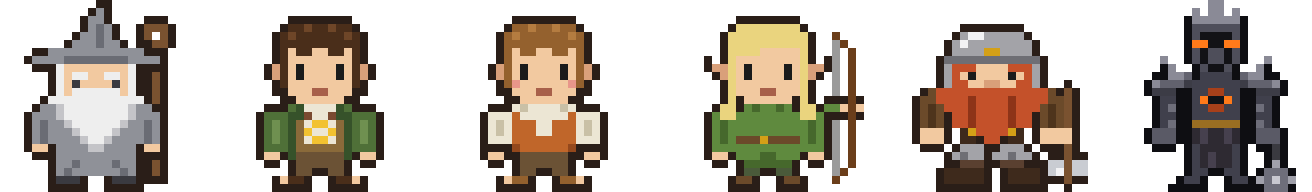
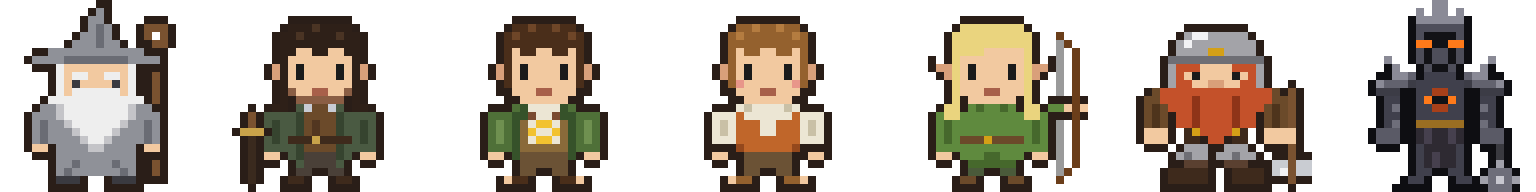
Add Aragorn to the fellowship
Aragorn joins the cast after Gandalf, drawn on the same 24x24 grid:
dark hair, stubble and a grey-green ranger cloak, with his sword
sheathed at the left hip. In battle he draws and raises it, then
thrusts; at rest he smokes a pipe like the others.

His sprites and banners are generated, and the README header is
redrawn with him in it. The Shire and Mordor screenshots and the
gallery preview are left as they are.

diff --git a/mods/fellowship/main.js b/mods/fellowship/main.js
@@ -79,7 +79,7 @@ function icon(p, size, color) {
   return p.tint ? svg(p.icon).size(size).flex_none().text_color(color) : image(p.icon).w(size).h(size).flex_none();
 }
 
-const CAST = ["gandalf", "frodo", "sam", "legolas", "gimli"];
+const CAST = ["gandalf", "aragorn", "frodo", "sam", "legolas", "gimli"];
 // Joins only agents started while the system is dark, ahead of the fellowship.
 const DARK_LORD = "sauron";
 const STILL_STATES = new Set(["idle", "blocked", "done"]);

diff --git a/tools/sprites.py b/tools/sprites.py
@@ -188,6 +188,36 @@ GANDALF_STAFF = [
 GANDALF_PAL = {**SKIN, "G": "#8f9198", "g": "#6a6c74", "W": "#eeeeee", "w": "#c4c4c8", "T": "#7a5230",
                "x": "#cfe6ff", "X": "#ffffff", "k": "#3a3a40"}
 
+ARAGORN = [
+    "........" "........" "........",
+    "........" "........" "........",
+    "........" "oooooooo" "........",
+    ".......o" "hhhHhhhh" "o.......",
+    "......oh" "hHhhhhHh" "ho......",
+    "......oh" "hhhhhhhh" "ho......",
+    "......oh" "hsshhssh" "ho......",
+    "......oh" "ssssssss" "ho......",
+    ".....oSh" "skssssks" "hSo.....",
+    ".....oSh" "skssssks" "hSo.....",
+    "......oh" "ssssssss" "ho......",
+    "......oh" "bssmmssb" "ho......",
+    "......oh" "obbbbbbo" "ho......",
+    ".....ohh" "oCwLLwCo" "hho.....",
+    "....oCCC" "CcLLLLcC" "CCCo....",
+    "....oCcC" "CcLlLLcC" "CcCo....",
+    "....oCcC" "CcLlLLcC" "CcCo....",
+    "....oCcC" "nnnynnnn" "CcCo....",
+    "....oCCC" "CcLLLLcC" "CCCo....",
+    "....osso" "CcPPPPcC" "osso....",
+    ".....oo." "oCPPPPCo" ".oo.....",
+    "........" "oPPooPPo" "........",
+    ".......o" "nno..onn" "o.......",
+    ".......o" "ooo..ooo" "o.......",
+]
+ARAGORN_PAL = {**SKIN, "h": "#2e2018", "H": "#4a3424", "b": "#8a5e44", "C": "#4a5a42", "c": "#36442f",
+               "w": "#c8ccd4", "L": "#6b4a2a", "l": "#523620", "n": "#3e2a1c", "y": "#c9a34a", "P": "#4a4038",
+               "g": "#c9a34a", "G": "#7a5230", "V": "#3a2a1e"}
+
 SAURON = [
     "........" "...SS..." "........",
     "........" ".S.SS.S." "........",
@@ -258,6 +288,8 @@ def hero(name):
         return gimli_axe_low(GIMLI), GIMLI_PAL
     if name == "gandalf":
         return under(GANDALF_STAFF, GANDALF), GANDALF_PAL
+    if name == "aragorn":
+        return scabbard(ARAGORN, drawn=False), ARAGORN_PAL
     if name == "sauron":
         return sauron_mace_low(SAURON), SAURON_PAL
     raise KeyError(name)
@@ -280,6 +312,12 @@ def gimli_axe_low(rows):
         ".ooToo",
         "...o..",
     ])
+
+
+def scabbard(rows, drawn):
+    """The scabbard at the left hip, with the hilt in it or empty."""
+    hilt = ["..o..", ".o,o.", ".o,o.", "ooooo"] if drawn else ["..o..", ".oGo.", ".oGo.", "ogggo"]
+    return stamp(rows, 1, 13, hilt + [".oVo."] * 6 + ["..o.."])
 
 
 def sauron_mace_low(rows):
@@ -460,6 +498,41 @@ def gandalf_frames():
                  "gandalf-idle-2": put(smoke(put(still, pipe), (4, 12), False), [(4, 12, "4")])}
 
 
+def aragorn_frames():
+    base, pal = hero("aragorn")
+    pal = {**pal, **SMOKE, "X": "#eef2f8", "x": "#a8b0bc", "*": "#fff4b0", "z": "#8a5a40", "p": "#6b4a2a"}
+    empty = scabbard(ARAGORN, drawn=True)
+    up = stamp(empty, 16, 0, [
+        "...o..",
+        "..oXo.",
+        "..oXo.",
+        "..oXo.",
+        "..oXo.",
+        "..oXo.",
+        "..oXo.",
+        "..oXo.",
+        ".ogggo",
+        "..oGo.",
+        "..oso.",
+        ".oCCo.",
+        ".oCo..",
+        "oCo...",
+    ])
+    up = put(up, [(21, 1, "*"), (20, 0, "*"), (22, 2, "*"), (21, 2, "x")])
+    strike = stamp(empty, 15, 12, [
+        "..ooo.oo.",
+        ".CCsgXXXX",
+        "..ooo.oo.",
+    ])
+    strike = put(strike, [(19, 4, "x"), (21, 5, "x"), (22, 7, "x"), (23, 9, "x"), (23, 11, "x")])
+    pipe = [(8, 11, "p"), (7, 11, "p"), (6, 11, "p"), (5, 11, "p"), (4, 11, "5"), (3, 11, "5"), (4, 12, "o"), (3, 12, "o"),
+            (2, 11, "o"), (2, 10, "o"), (3, 10, "5"), (5, 12, "s")]
+    still = asleep(base, [8, 9])
+    return pal, {"aragorn": base, "aragorn-work": up, "aragorn-2": strike,
+                 "aragorn-idle": smoke(put(still, pipe), (4, 10), True),
+                 "aragorn-idle-2": put(smoke(put(still, pipe), (4, 10), False), [(4, 10, "4")])}
+
+
 def sauron_frames():
     base, pal = hero("sauron")
     pal = {**pal, "E": "#ffe08a", "f": "#ff9a2a", "F": "#ffd04a", "d": "#7a2a10", "w": "#c8c8d0"}
@@ -491,8 +564,8 @@ def sauron_frames():
     return pal, {"sauron": base, "sauron-work": up, "sauron-2": strike, "sauron-idle": dim, "sauron-idle-2": base}
 
 
-CAST = ["gandalf", "frodo", "sam", "legolas", "gimli", "sauron"]
-FRAMES = (gandalf_frames, frodo_frames, sam_frames, legolas_frames, gimli_frames, sauron_frames)
+CAST = ["gandalf", "aragorn", "frodo", "sam", "legolas", "gimli", "sauron"]
+FRAMES = (gandalf_frames, aragorn_frames, frodo_frames, sam_frames, legolas_frames, gimli_frames, sauron_frames)
 POSES = dict(zip(CAST, (frames() for frames in FRAMES)))
 # Base pose with the character's full palette, every pose's colors included.
 SPRITES = {name: (poses[name], palette) for name, (palette, poses) in POSES.items()}

diff --git a/tools/header.py b/tools/header.py
@@ -4,7 +4,7 @@ from PIL import Image
 
 # The README's header: the cast side by side on a transparent background, so it reads on
 # GitHub's light and dark pages alike.
-CAST = ["gandalf", "frodo", "sam", "legolas", "gimli", "sauron"]
+CAST = ["gandalf", "aragorn", "frodo", "sam", "legolas", "gimli", "sauron"]
 SCALE = 8
 GAP = 4
 OUT = os.path.join(os.path.dirname(os.path.abspath(__file__)), "..", "docs", "header.png")

diff --git a/tools/banners.py b/tools/banners.py
@@ -5,7 +5,7 @@ from PIL import Image
 # Notification Center takes PNG, not SVG; 8x keeps the pixels crisp.
 SCALE = 8
 OUT = os.path.join(pixels.HOME, "fellowship", "banners")
-CAST = ["gandalf", "frodo", "sam", "legolas", "gimli", "sauron"]
+CAST = ["gandalf", "aragorn", "frodo", "sam", "legolas", "gimli", "sauron"]
 
 
 def png(rows, palette, path):

diff --git a/RECIPE.md b/RECIPE.md
@@ -29,16 +29,17 @@ Program icons: Claude Code keeps its orange creature, now holding a gold ring. T
 
 ## How it behaves
 
-- **Casting.** A new agent takes the first free member of Gandalf, Frodo, Sam, Legolas and Gimli. If the system is dark when the agent appears, Sauron is offered first. If a Sauron is already active, the next free member is taken. The choice is kept per terminal address in shared `fellowship.cast`, so the character survives restarts and later theme changes. When all members are taken, names repeat in order.
+- **Casting.** A new agent takes the first free member of Gandalf, Aragorn, Frodo, Sam, Legolas and Gimli. If the system is dark when the agent appears, Sauron is offered first. If a Sauron is already active, the next free member is taken. The choice is kept per terminal address in shared `fellowship.cast`, so the character survives restarts and later theme changes. When all members are taken, names repeat in order.
 - **Working:** the character fights. Two frames swap every 800ms:
   - Gandalf: sparks burst from his staff.
+  - Aragorn: draws his sword from its scabbard and thrusts.
   - Frodo: Sting glows blue.
   - Sam: swings a frying pan.
   - Legolas: draws his bow and looses an arrow.
   - Gimli: brings his axe down.
   - Sauron: strikes with a burning mace while his eyes flare.
 - **Idle:** eyes closed, two frames every 1800ms:
-  - Gandalf, Frodo, Sam and Gimli: a pipe with a glowing ember and a smoke ring rising.
+  - Gandalf, Aragorn, Frodo, Sam and Gimli: a pipe with a glowing ember and a smoke ring rising.
   - Legolas: takes a bite of lembas instead.
   - Sauron: his Eye smoulders.
 - **Blocked:** a still sprite with a red `!` in the top-left corner.

diff --git a/README.md b/README.md
@@ -1,5 +1,5 @@
 <p align="center">
-  <img src="docs/header.png" alt="Gandalf, Frodo, Sam, Legolas, Gimli and Sauron as pixel sprites" width="640">
+  <img src="docs/header.png" alt="Gandalf, Aragorn, Frodo, Sam, Legolas, Gimli and Sauron as pixel sprites" width="640">
 </p>
 
 <h1 align="center">Middle-earth for Herdr</h1>
@@ -21,7 +21,7 @@ Your agents become the Fellowship and your spaces become the realms. Light mode 
 
 ![Middle-earth in Mordor, with Sauron](docs/mordor.png)
 
-- **Agents:** Gandalf, Frodo, Sam, Legolas and Gimli, as animated pixel sprites. Sauron joins in dark mode.
+- **Agents:** Gandalf, Aragorn, Frodo, Sam, Legolas and Gimli, as animated pixel sprites. Sauron joins in dark mode.
   - **Idle:** they smoke a pipe.
   - **Working:** they fight.
   - **Blocked:** they raise a `!`.
